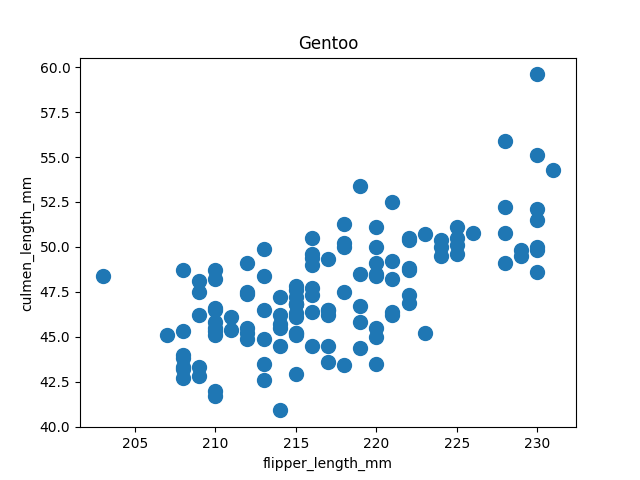
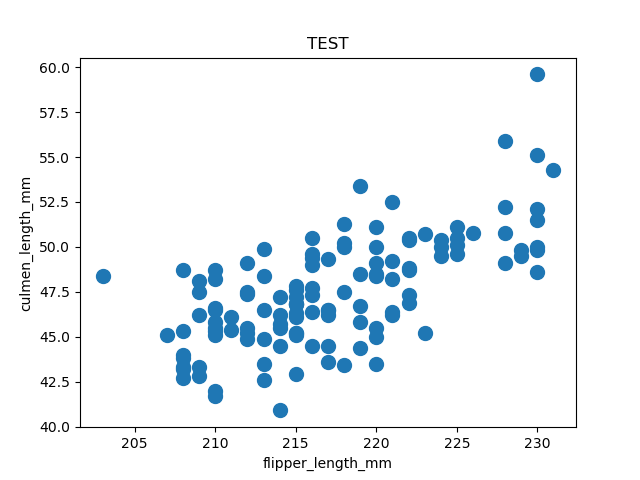
Title: Key test

diff --git a/penguins.py b/penguins.py
@@ -16,5 +16,5 @@ penguins_size['colour'] = colour
 same_graph = penguins_size.plot.scatter(x = 'flipper_length_mm', y = 'culmen_length_mm', c = 'colour').get_figure()
 same_graph.savefig('same_graph.png')
 for key, frame in penguins_size.groupby('species'):
-  different_graphs = frame.plot.scatter(x = 'flipper_length_mm', y= 'culmen_length_mm', title = key, s = 100).get_figure()
+  different_graphs = frame.plot.scatter(x = 'flipper_length_mm', y= 'culmen_length_mm', title = 'TEST', s = 100).get_figure()
   different_graphs.savefig('graph'+str(key)+'.png')
